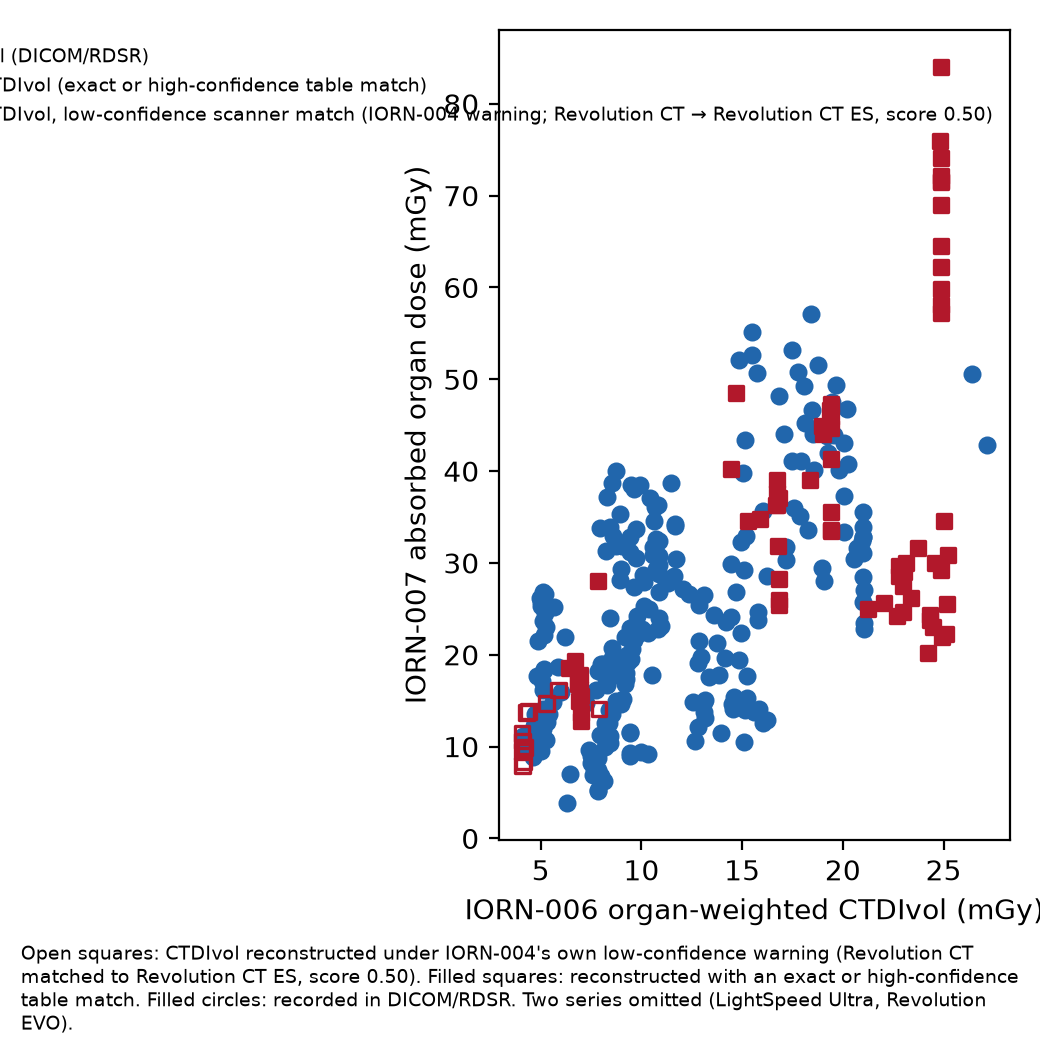
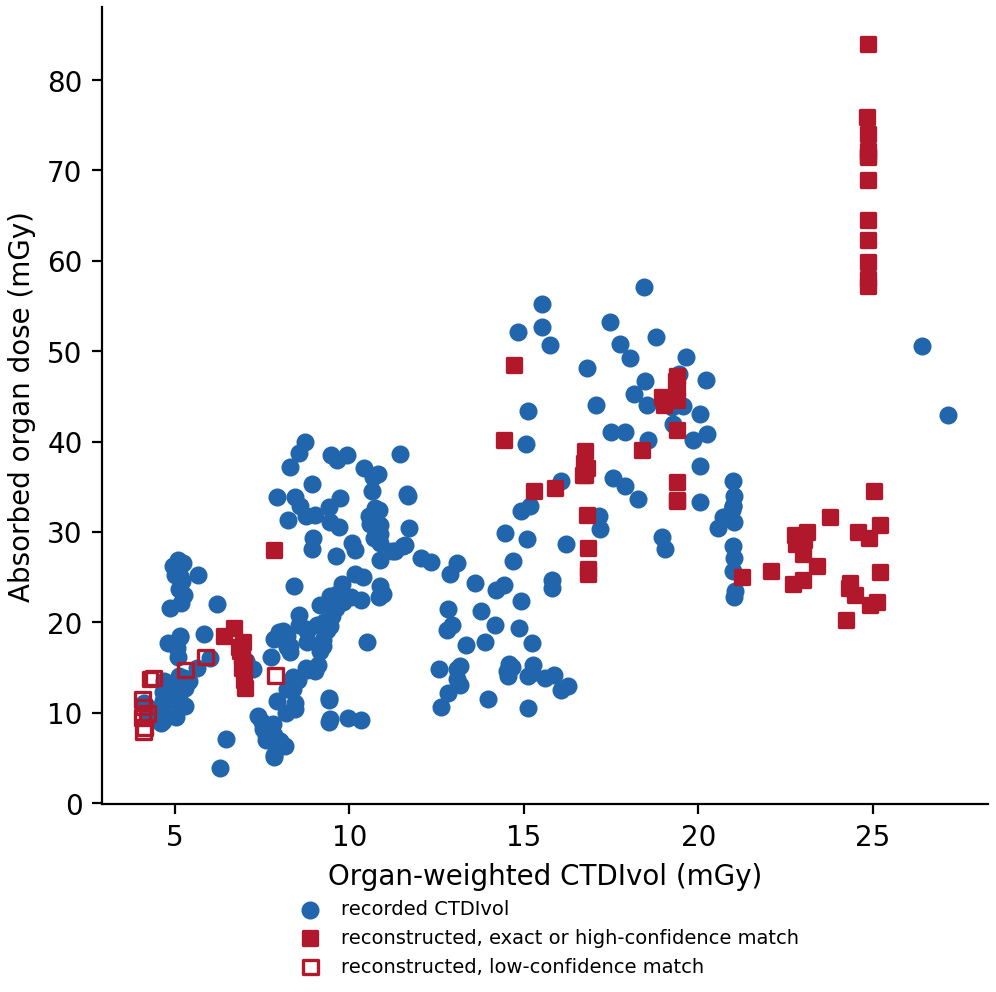
paper: redraw figures 4 and 6, fix the citation order, bound the claim
The four gates added yesterday all failed on the submitted manuscript. They pass now, because
the defects they describe are fixed rather than because the gates were softened.

Figure 4. The legend moves below the axes, where three entries of that length can sit without
running off the canvas; inside the axes matplotlib placed them over the edge and cut them
mid-word. The long marker descriptions stay in the caption, and the paragraph that was painted
along the bottom of the image is gone -- the review asked for its removal,
and the caption had been carrying the same words all along. The axis titles lose IORN-006 and
IORN-007: those are this programme's filing system, not quantities a reader of the journal has
any way to interpret.

Figure 6. The title drawn across the top of the image said "Figure 5", because the pipeline
that produced it numbers its own output and the copy into paper/figures/ renamed the file
without repainting it. The image now carries no title at all; the caption is the manuscript's
to print. The pipeline's file is renamed vendor_organ_dose.png and draw_figure5 becomes
draw_vendor_figure, so nothing upstream of the paper numbers a figure -- a results file
outlives any one manuscript's numbering, and this is the second time that numbering has
leaked downstream. Its legend also moves below the axes: inside them it came close enough to
the tallest bar of the last organ group that deciding whether they touched needed a magnified
[…]

diff --git a/tools/collect_phase2_results.py b/tools/collect_phase2_results.py
@@ -27,7 +27,12 @@ DOSES = REPO / "results" / "phase2_cohort" / "figure4_doses.json"
 INDEX = REPO / "results" / "phase2_cohort" / "iorn006_organ_index.json"
 TABLE4 = REPO / "results" / "phase2_cohort" / "table4_organ_doses.json"
 STATS = REPO / "results" / "phase2_cohort" / "figure4_stats.json"
-FIG5 = REPO / "results" / "phase2_cohort" / "figure5_vendor.png"
+#: The vendor figure, named for what it shows and not for where it lands in a manuscript.
+#: It used to be figure5_vendor.png, which is this pipeline's own numbering; the paper places
+#: it as figure 6, so the copy into paper/figures/ renamed it and the title drawn inside the
+#: image went on saying Figure 5. A figure number belongs to a manuscript, and a manuscript
+#: renumbers; results files outlive that and must not carry one.
+VENDOR_FIGURE = REPO / "results" / "phase2_cohort" / "vendor_organ_dose.png"
 
 VENDORS = ("GE", "Siemens", "Canon/Toshiba", "Philips")
 ORGAN_ORDER = (
@@ -151,7 +156,7 @@ def figure4_stats(index: dict[str, Any], doses_payload: dict[str, Any]) -> dict[
     }
 
 
-def draw_figure5(table: dict[str, Any], path: Path) -> Path:
+def draw_vendor_figure(table: dict[str, Any], path: Path) -> Path:
     import matplotlib.pyplot as plt
 
     organs = [row["organ"] for row in table["organs"] if int(row["all"].get("n") or 0) > 0]
@@ -181,11 +186,28 @@ def draw_figure5(table: dict[str, Any], path: Path) -> Path:
     ax.set_xticks(x)
     ax.set_xticklabels([o.replace("_", " ") for o in organs], rotation=35, ha="right")
     ax.set_ylabel("Absorbed organ dose (mGy), median")
-    ax.legend(frameon=False, fontsize=8)
-    ax.set_title("Figure 5  Scan-covering organ dose by vendor")
+    # Below the axes in one row. Inside them the four entries sat in the top right, where the
+    # tallest bar of the last organ group rises into the same band -- close enough that
+    # deciding whether they touch needs a magnified crop, which is not a thing a figure should
+    # require. Outside the axes the question cannot arise.
+    ax.legend(
+        frameon=False,
+        fontsize=8,
+        loc="upper center",
+        bbox_to_anchor=(0.5, -0.28),
+        ncol=4,
+        borderaxespad=0.0,
+    )
+    # No title drawn into the image. This file is copied into paper/figures/ as figure 6, and
+    # the title said "Figure 5" because that is what this pipeline calls it -- so the
+    # manuscript printed Figure 5 above the image and Figure 6 in the caption below, which is
+    # what referee 2 of PMB-122419 asked about. Renaming a file does not repaint it. The
+    # caption belongs to the manuscript; the image carries no number at all.
     path.parent.mkdir(parents=True, exist_ok=True)
     fig.tight_layout()
-    fig.savefig(path, dpi=200)
+    # bbox_inches="tight" so the legend below the axes is inside the canvas rather than
+    # hanging off it, which is how figure 4's legend reached the referees cut mid-word.
+    fig.savefig(path, dpi=200, bbox_inches="tight", pad_inches=0.04)
     plt.close(fig)
     return path
 
@@ -211,14 +233,14 @@ def main(argv: list[str] | None = None) -> int:
     ap.add_argument("--index", type=Path, default=INDEX)
     ap.add_argument("--table4", type=Path, default=TABLE4)
     ap.add_argument("--stats", type=Path, default=STATS)
-    ap.add_argument("--figure5", type=Path, default=FIG5)
+    ap.add_argument("--vendor-figure", type=Path, default=VENDOR_FIGURE)
     args = ap.parse_args(argv)
     doses_payload = _load(args.doses)
     index = _load(args.index)
     table, stats = collect(doses_payload=doses_payload, index=index)
     args.table4.write_text(json.dumps(table, indent=2, ensure_ascii=False) + "\n", encoding="utf-8")
     args.stats.write_text(json.dumps(stats, indent=2, ensure_ascii=False) + "\n", encoding="utf-8")
-    draw_figure5(table, args.figure5)
+    draw_vendor_figure(table, args.vendor_figure)
     print(
         f"[phase2] table4={args.table4}  stats={args.stats}  "
         f"n_organs={stats['n_organs']}  r_all={stats['pearson_r_all']:.3f}  "

diff --git a/tools/figure4_scatter.py b/tools/figure4_scatter.py
@@ -40,6 +40,19 @@ _EDGE = {
     "reconstructed_low_confidence": "#b2182b",
 }
 
+#: What the legend says, as against what ``FIGURE4_MARKERS[kind]["label"]`` says.
+#:
+#: The long labels are prose and belong in the caption, where PMB-122419's referee 2 found
+#: them anyway -- printed a second time inside the image. Drawn into a legend they ran off
+#: the left edge of the canvas and were cut mid-word, because matplotlib places a legend
+#: inside the axes and will not shrink the text to fit. They also name IORN-004, which is
+#: this programme's own numbering and means nothing to a reader of the journal.
+_LEGEND_LABEL = {
+    "recorded": "recorded CTDIvol",
+    "reconstructed": "reconstructed, exact or high-confidence match",
+    "reconstructed_low_confidence": "reconstructed, low-confidence match",
+}
+
 
 def matplotlib_style(kind: str) -> dict[str, Any]:
     """kwargs for ax.scatter. Hollow = facecolors 'none'."""
@@ -53,7 +66,7 @@ def matplotlib_style(kind: str) -> dict[str, Any]:
         "facecolors": color if filled else "none",
         "edgecolors": color,
         "linewidths": 1.2,
-        "label": spec["label"],
+        "label": _LEGEND_LABEL.get(kind, spec["label"]),
     }
 
 
@@ -144,6 +157,12 @@ def draw_scatter(points: list[dict[str, Any]], path: Path, *, caption: str) -> P
             "Figure 4 y-axis is gated: 007 organ doses are not in the point list. "
             "Pass doses once G0–G5 close, or use --legend-only."
         )
+    # The caption is the journal's to print under the figure. It used to be drawn into the
+    # image as well, where referee 2 of PMB-122419 found it and asked for its removal; it is
+    # still accepted as an argument so the caller's contract does not change, and it is still
+    # what the manuscript places, but it is no longer painted on top of the data.
+    del caption
+
     fig, ax = plt.subplots(figsize=(5.2, 5.2))
     for kind in ("recorded", "reconstructed", "reconstructed_low_confidence"):
         xs = [p["x"] for p in points if p["figure4_marker"] == kind]
@@ -151,13 +170,24 @@ def draw_scatter(points: list[dict[str, Any]], path: Path, *, caption: str) -> P
         if not xs:
             continue
         ax.scatter(xs, ys, s=28, **matplotlib_style(kind))
-    ax.set_xlabel("IORN-006 organ-weighted CTDIvol (mGy)")
-    ax.set_ylabel("IORN-007 absorbed organ dose (mGy)")
-    ax.legend(frameon=False, fontsize=7)
-    fig.text(0.02, 0.01, caption, fontsize=7, wrap=True)
+    # No IORN numbers on the axes: they are this programme's filing system, not a quantity.
+    ax.set_xlabel("Organ-weighted CTDIvol (mGy)")
+    ax.set_ylabel("Absorbed organ dose (mGy)")
+    # Under the axes, not inside them: three entries of this length have nowhere to sit in a
+    # square panel, and matplotlib's "best" placement put them over the edge of the canvas.
+    ax.legend(
+        frameon=False,
+        fontsize=7,
+        loc="upper center",
+        bbox_to_anchor=(0.5, -0.11),
+        ncol=1,
+        handletextpad=0.6,
+        borderaxespad=0.0,
+    )
+    ax.spines[["top", "right"]].set_visible(False)
     path.parent.mkdir(parents=True, exist_ok=True)
-    fig.tight_layout(rect=(0, 0.08, 1, 1))
-    fig.savefig(path, dpi=200)
+    fig.tight_layout()
+    fig.savefig(path, dpi=200, bbox_inches="tight", pad_inches=0.04)
     plt.close(fig)
     return path
 

diff --git a/paper/collect_figures.py b/paper/collect_figures.py
@@ -35,7 +35,7 @@ FIGURE_SOURCES: dict[int, tuple[str, str | None]] = {
     3: ("figure3_tg195_case4.png", None),
     4: ("figure4_scatter.png", "phase2_cohort/figure4_scatter.png"),
     5: ("figure5_conversion_ceiling.png", None),
-    6: ("figure6_vendor.png", "phase2_cohort/figure5_vendor.png"),
+    6: ("figure6_vendor.png", "phase2_cohort/vendor_organ_dose.png"),
 }
 
 _CAPTION_ROW = re.compile(r"^\|\s*Fig\s*(\d+)\s*\|\s*(.+?)\s*\|\s*$", re.M)

diff --git a/paper/manuscript.md b/paper/manuscript.md
@@ -265,7 +265,7 @@ Across [[results:manifest.json:metrics.n_points]] organ-series pairs the median
 absorbed organ dose is [[results:manifest.json:metrics.dose_median_mgy|.1f]] mGy, with
 a range of [[results:manifest.json:metrics.dose_min_mgy|.1f]] to
 [[results:manifest.json:metrics.dose_max_mgy|.1f]] mGy. Per-organ values by vendor are
-given in table 1 and figure 6; with six to nine series per vendor the cohort is not
+given in table 1; with six to nine series per vendor the cohort is not
 powered for a vendor comparison and none is offered.
 
 [[table:organ_doses]]
@@ -404,9 +404,16 @@ beat one number — and a table with more coefficients, fitted on more organs, w
 fitting more finely into the [[results:manifest.json:metrics.variance_between_organ|.0%]]
 of variance that organ identity explains.
 
+<!-- scope-of-claim -->
 Whether the floor found here is the floor everywhere is not something one cohort can
-settle. It is a floor on abdominal CT, on twelve abdominal organs, in a cohort selected
-for having per-slice tube current recorded. What is more likely to generalise is the
+settle, and it is not something five conversions can settle either. The bound is over
+the five conversions scored in section 2.9 — a single cohort factor, one factor per
+organ, a scan-length term, and that term combined with either the organ or the patient's
+size — each cross-validated on this cohort. It is a floor on those, on abdominal CT, on
+twelve abdominal organs, in a cohort selected for having per-slice tube current recorded.
+It is not a proof that no index-based conversion can do better: a richer predictor,
+given more of the patient than an index carries, is not excluded by anything measured
+here. What is more likely to generalise is the
 structure of the residual rather than its size: an index conditions on the scanner and
 the protocol, and the transport it omits is a function of the patient.
 
